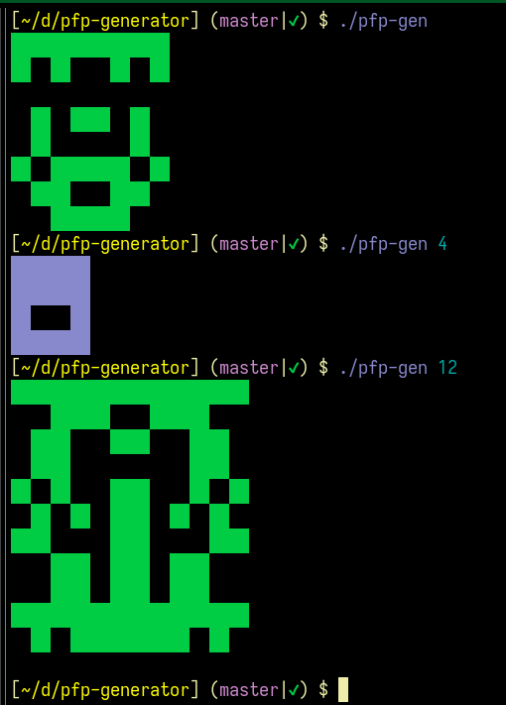
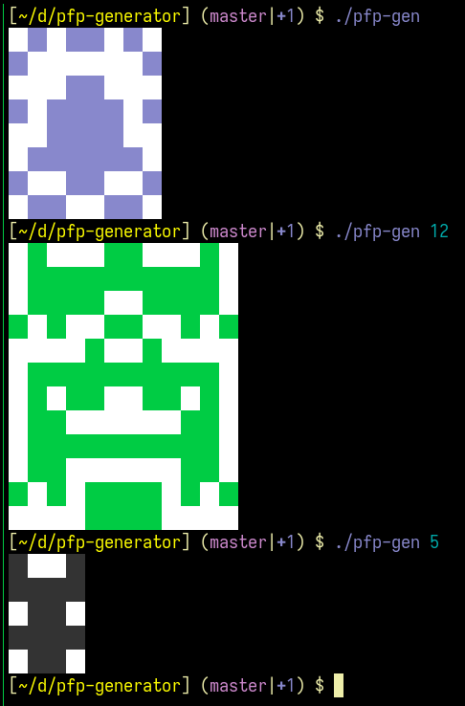
white background

diff --git a/main.c b/main.c
@@ -13,7 +13,7 @@ int main(int argc, char **argv) {
     int colour = rand()%8 + 40;
     char colourstr[8];
     sprintf(colourstr, "\e[0;%dm", colour);
-    char resetstr[] = "\e[0m";
+    char resetstr[] = "\e[0;107m";
 
     int *arr = malloc((dim/2)*sizeof(int));
 
@@ -26,7 +26,7 @@ int main(int argc, char **argv) {
         for (int i = 0; i < dim/2; ++i)
             printf("%s  ", arr[dim/2 - i - 1] ? colourstr : resetstr);
 
-        printf("%s\n", resetstr);
+        printf("\e[0m\n");
     }
 
     free(arr);
